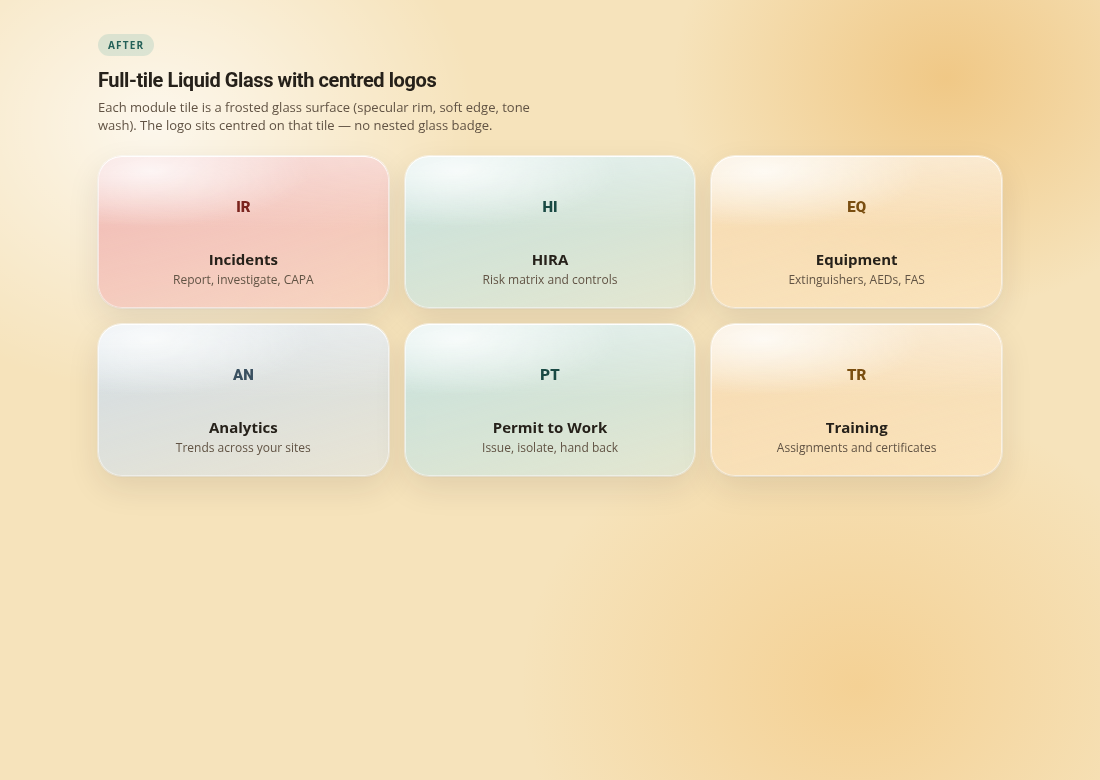
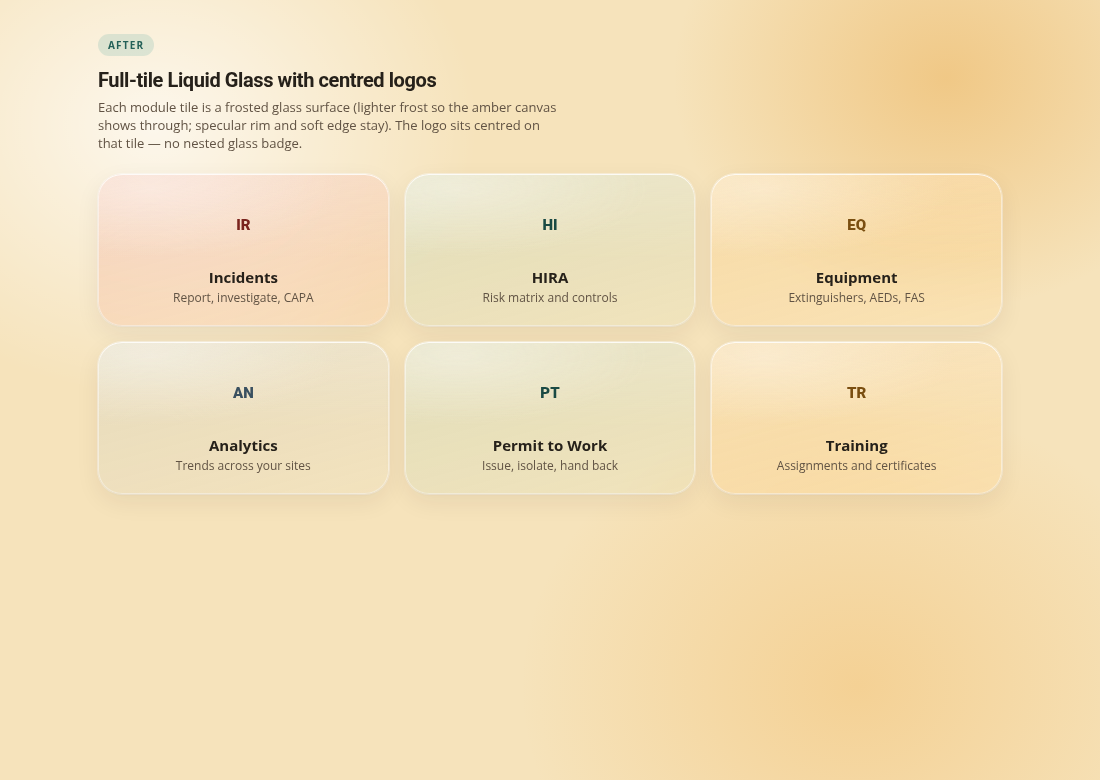
Make full-tile Liquid Glass more transparent
Lower the frosted fill so amber canvas shows through the module tiles:
white wash at 14% alpha, tint mixes against transparent (18%/7%), lighter
specular and rim, blur 14px. Labels stay ink-dark for contrast.

Changed region(s): [[0.0618, 0.1231, 0.9273, 0.6154], [0.6182, 0.5846, 0.6491, 0.6154]]

diff --git a/docs/ui-preview/module-tiles-after.html b/docs/ui-preview/module-tiles-after.html
@@ -78,20 +78,21 @@
         text-align: center;
         border-radius: 24px;
         color: var(--mark-ink);
-        background:
-          radial-gradient(120% 80% at 18% 10%, rgba(255, 255, 255, 0.78), transparent 46%),
+        background-color: rgba(255, 255, 255, 0.14);
+        background-image:
+          radial-gradient(120% 80% at 18% 10%, rgba(255, 255, 255, 0.32), transparent 55%),
           linear-gradient(
             165deg,
-            color-mix(in srgb, var(--mark-tint) 40%, #ffffff) 0%,
-            color-mix(in srgb, var(--mark-tint) 18%, rgba(255, 255, 255, 0.52)) 100%
+            color-mix(in srgb, var(--mark-tint) 18%, transparent) 0%,
+            color-mix(in srgb, var(--mark-tint) 7%, transparent) 100%
           );
-        backdrop-filter: blur(22px) saturate(1.3);
+        backdrop-filter: blur(14px) saturate(1.2);
         box-shadow:
-          inset 0 1px 0 rgba(255, 255, 255, 0.88),
-          inset 0 -1px 0 rgba(38, 33, 26, 0.05),
-          0 1px 2px rgba(38, 33, 26, 0.05),
-          0 12px 32px rgba(38, 33, 26, 0.1),
-          0 0 0 1px rgba(255, 255, 255, 0.55);
+          inset 0 1px 0 rgba(255, 255, 255, 0.65),
+          inset 0 -1px 0 rgba(38, 33, 26, 0.035),
+          0 1px 2px rgba(38, 33, 26, 0.035),
+          0 8px 24px rgba(38, 33, 26, 0.07),
+          0 0 0 1px rgba(255, 255, 255, 0.42);
       }
       .glass-tile::before {
         content: '';
@@ -99,7 +100,7 @@
         inset: 0;
         pointer-events: none;
         border-radius: inherit;
-        background: linear-gradient(180deg, rgba(255, 255, 255, 0.42), transparent 48%);
+        background: linear-gradient(180deg, rgba(255, 255, 255, 0.2), transparent 55%);
       }
       .glass-tile::after {
         content: '';
@@ -107,7 +108,7 @@
         inset: 0;
         pointer-events: none;
         border-radius: inherit;
-        box-shadow: inset 0 0 0 1px rgba(255, 255, 255, 0.55);
+        box-shadow: inset 0 0 0 1px rgba(255, 255, 255, 0.45);
       }
       .glass-tile > * {
         position: relative;
@@ -152,8 +153,9 @@
       <span class="badge">After</span>
       <h1>Full-tile Liquid Glass with centred logos</h1>
       <p class="lede">
-        Each module tile is a frosted glass surface (specular rim, soft edge, tone wash). The logo
-        sits centred on that tile — no nested glass badge.
+        Each module tile is a frosted glass surface (lighter frost so the amber canvas shows
+        through; specular rim and soft edge stay). The logo sits centred on that tile — no nested
+        glass badge.
       </p>
       <div class="grid">
         <article class="glass-tile siren">

diff --git a/src/index.css b/src/index.css
@@ -480,28 +480,32 @@ thead {
    scaled to the card. Portal home used to put frost only on the 60px logo
    chip while the card stayed flat white; the logo then looked like a badge
    glued onto paper. The whole tile is the glass now, and the logo sits on
-   it without a second nested disc. */
+   it without a second nested disc.
+
+   Fill stays translucent (no opaque white mix) so the amber canvas shows
+   through; specular rim + soft edge keep it readable as glass. */
 .glass-tile {
   --mark-tint: var(--brand-400);
   --mark-ink: var(--brand-ink);
   position: relative;
   overflow: hidden;
   color: var(--mark-ink);
-  background:
-    radial-gradient(120% 80% at 18% 10%, rgba(255, 255, 255, 0.78), transparent 46%),
+  background-color: rgba(255, 255, 255, 0.14);
+  background-image:
+    radial-gradient(120% 80% at 18% 10%, rgba(255, 255, 255, 0.32), transparent 55%),
     linear-gradient(
       165deg,
-      color-mix(in srgb, var(--mark-tint) 40%, #ffffff) 0%,
-      color-mix(in srgb, var(--mark-tint) 18%, rgba(255, 255, 255, 0.52)) 100%
+      color-mix(in srgb, var(--mark-tint) 18%, transparent) 0%,
+      color-mix(in srgb, var(--mark-tint) 7%, transparent) 100%
     );
-  backdrop-filter: blur(22px) saturate(1.3);
-  -webkit-backdrop-filter: blur(22px) saturate(1.3);
+  backdrop-filter: blur(14px) saturate(1.2);
+  -webkit-backdrop-filter: blur(14px) saturate(1.2);
   box-shadow:
-    inset 0 1px 0 rgba(255, 255, 255, 0.88),
-    inset 0 -1px 0 rgba(38, 33, 26, 0.05),
-    0 1px 2px rgba(38, 33, 26, 0.05),
-    0 12px 32px rgba(38, 33, 26, 0.1),
-    0 0 0 1px rgba(255, 255, 255, 0.55);
+    inset 0 1px 0 rgba(255, 255, 255, 0.65),
+    inset 0 -1px 0 rgba(38, 33, 26, 0.035),
+    0 1px 2px rgba(38, 33, 26, 0.035),
+    0 8px 24px rgba(38, 33, 26, 0.07),
+    0 0 0 1px rgba(255, 255, 255, 0.42);
 }
 .glass-tile::before {
   content: '';
@@ -509,7 +513,7 @@ thead {
   inset: 0;
   pointer-events: none;
   border-radius: inherit;
-  background: linear-gradient(180deg, rgba(255, 255, 255, 0.42), transparent 48%);
+  background: linear-gradient(180deg, rgba(255, 255, 255, 0.2), transparent 55%);
 }
 .glass-tile::after {
   content: '';
@@ -517,7 +521,7 @@ thead {
   inset: 0;
   pointer-events: none;
   border-radius: inherit;
-  box-shadow: inset 0 0 0 1px rgba(255, 255, 255, 0.55);
+  box-shadow: inset 0 0 0 1px rgba(255, 255, 255, 0.45);
 }
 .glass-tile > * {
   position: relative;
@@ -535,7 +539,7 @@ thead {
   transition: opacity 0.3s cubic-bezier(0.23, 1, 0.32, 1);
 }
 .group:hover .glass-tile-glow {
-  opacity: 0.32;
+  opacity: 0.18;
 }
 
 .is-on,

diff --git a/docs/ui-preview/shell.html b/docs/ui-preview/shell.html
@@ -150,22 +150,23 @@
         --mark-tint: #6db3aa;
         --mark-ink: #1a4a44;
         color: var(--mark-ink);
-        background:
-          radial-gradient(120% 80% at 18% 10%, rgba(255, 255, 255, 0.78), transparent 46%),
+        background-color: rgba(255, 255, 255, 0.14);
+        background-image:
+          radial-gradient(120% 80% at 18% 10%, rgba(255, 255, 255, 0.32), transparent 55%),
           linear-gradient(
             165deg,
-            color-mix(in srgb, var(--mark-tint) 40%, #ffffff) 0%,
-            color-mix(in srgb, var(--mark-tint) 18%, rgba(255, 255, 255, 0.52)) 100%
+            color-mix(in srgb, var(--mark-tint) 18%, transparent) 0%,
+            color-mix(in srgb, var(--mark-tint) 7%, transparent) 100%
           );
-        backdrop-filter: blur(22px) saturate(1.3);
-        -webkit-backdrop-filter: blur(22px) saturate(1.3);
+        backdrop-filter: blur(14px) saturate(1.2);
+        -webkit-backdrop-filter: blur(14px) saturate(1.2);
         border: 0;
         box-shadow:
-          inset 0 1px 0 rgba(255, 255, 255, 0.88),
-          inset 0 -1px 0 rgba(38, 33, 26, 0.05),
-          0 1px 2px rgba(38, 33, 26, 0.05),
-          0 12px 32px rgba(38, 33, 26, 0.1),
-          0 0 0 1px rgba(255, 255, 255, 0.55);
+          inset 0 1px 0 rgba(255, 255, 255, 0.65),
+          inset 0 -1px 0 rgba(38, 33, 26, 0.035),
+          0 1px 2px rgba(38, 33, 26, 0.035),
+          0 8px 24px rgba(38, 33, 26, 0.07),
+          0 0 0 1px rgba(255, 255, 255, 0.42);
       }
       .tile::before {
         content: '';
@@ -173,7 +174,7 @@
         inset: 0;
         pointer-events: none;
         border-radius: inherit;
-        background: linear-gradient(180deg, rgba(255, 255, 255, 0.42), transparent 48%);
+        background: linear-gradient(180deg, rgba(255, 255, 255, 0.2), transparent 55%);
       }
       .tile > * {
         position: relative;
